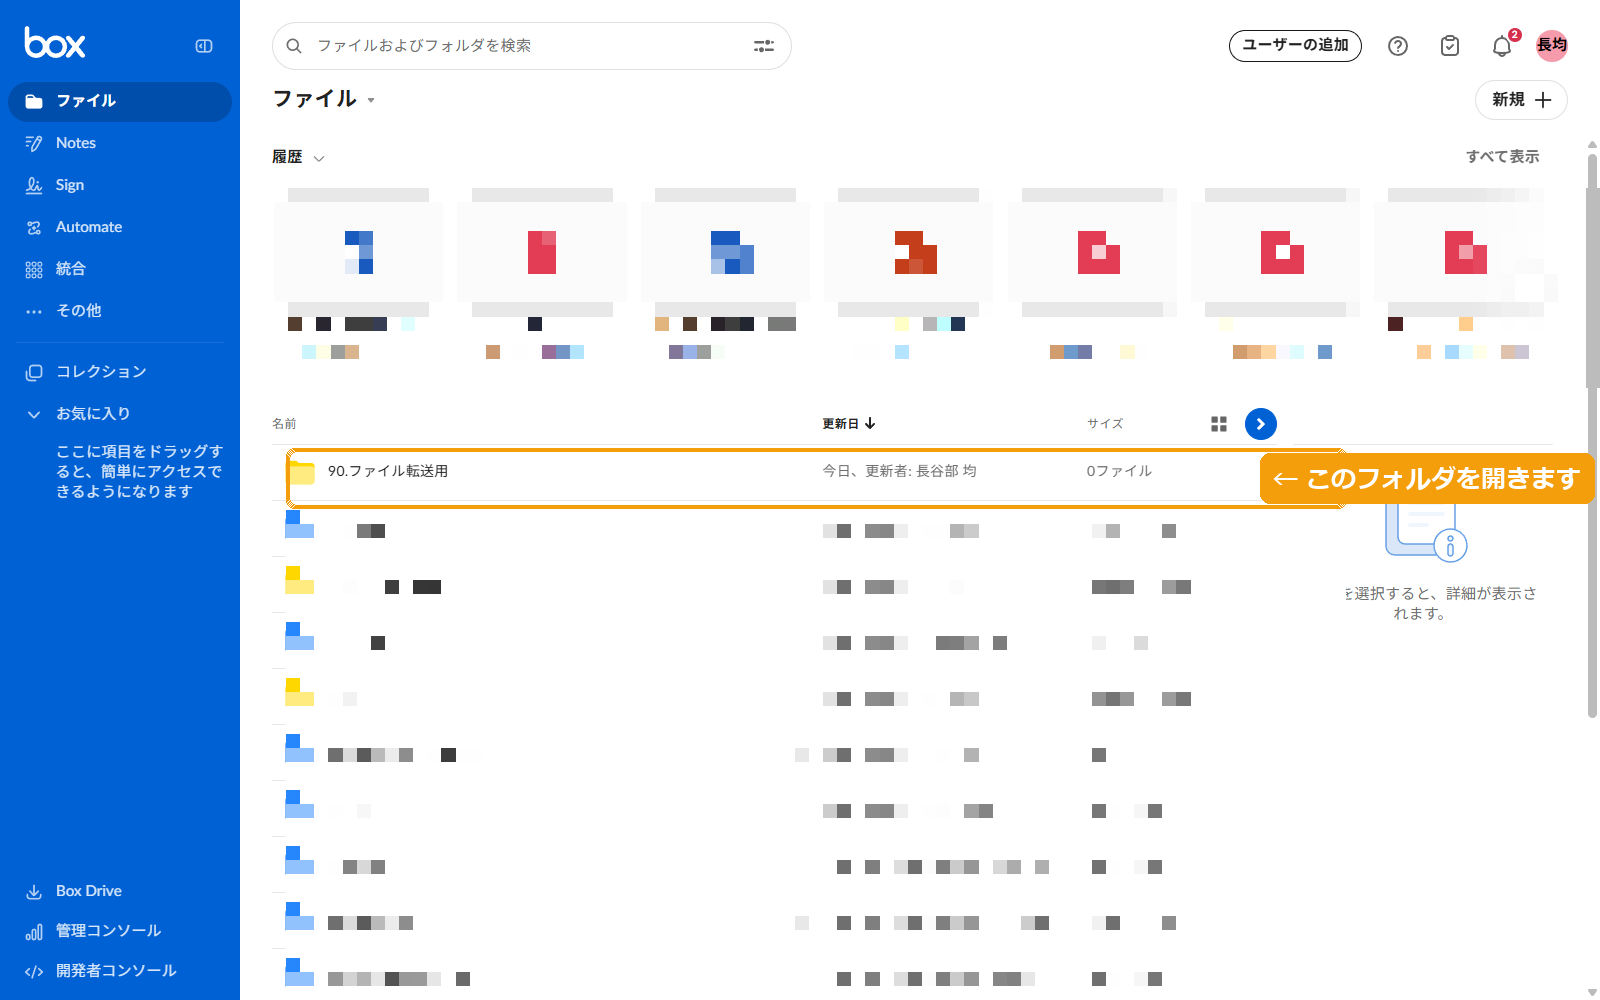
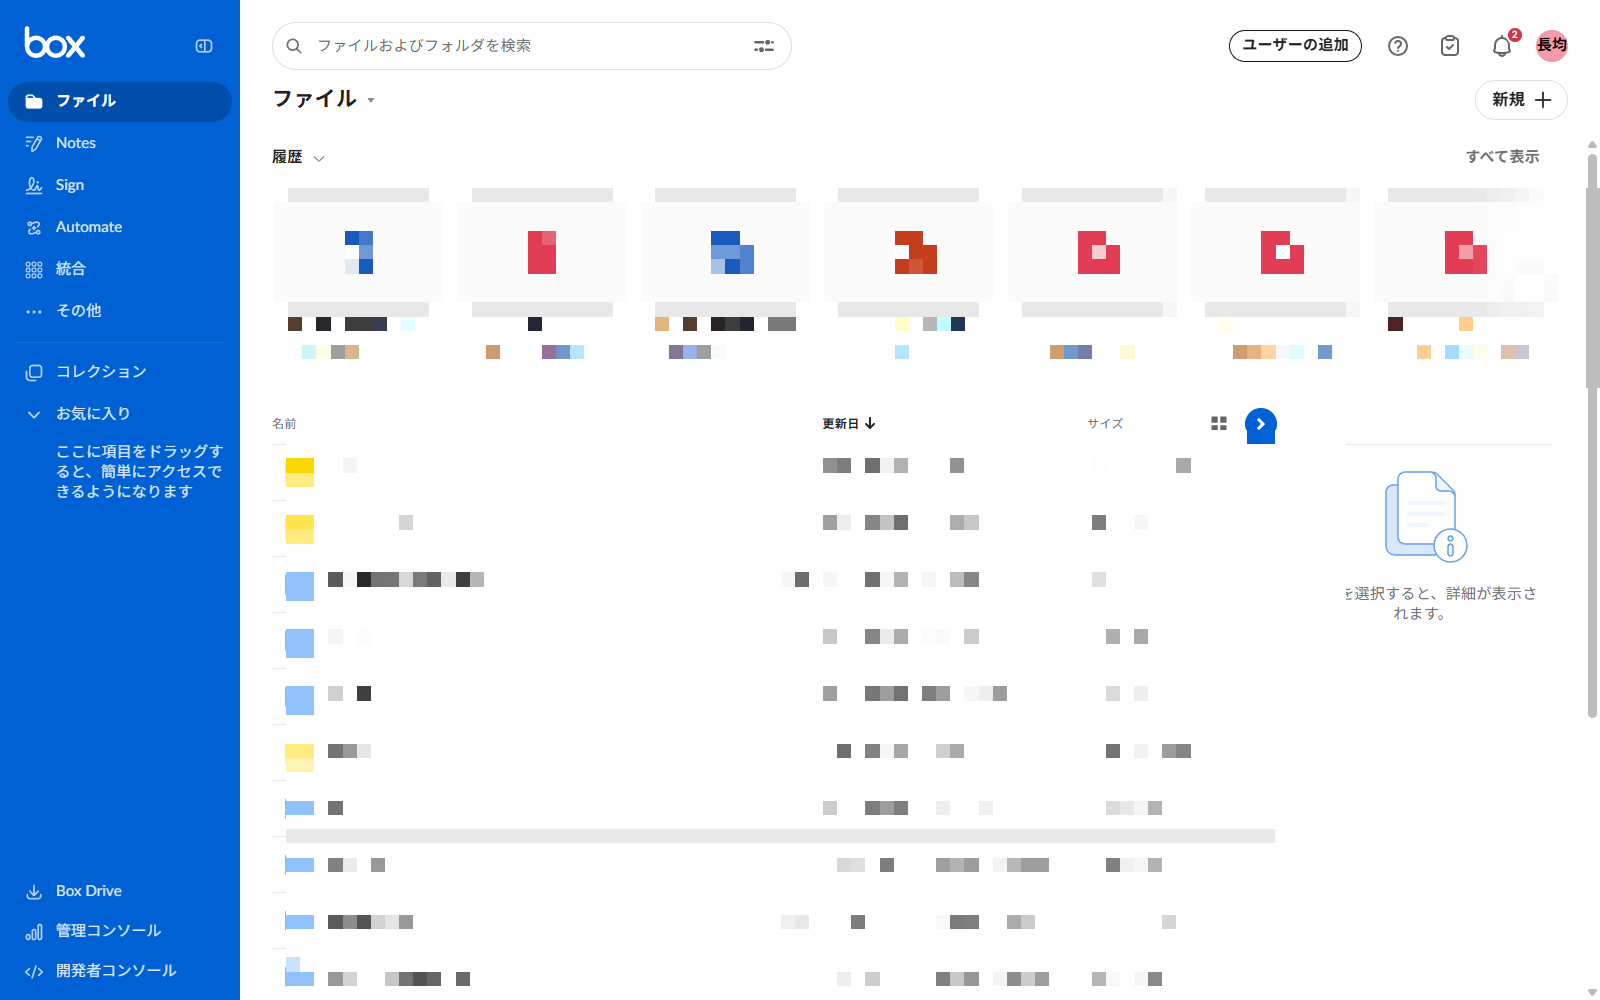
STEP3/4を実運用に合わせて更新（個人フォルダ直接表示・内部名モザイク）

diff --git a/index.html b/index.html
@@ -323,24 +323,25 @@ footer a { color: #00bfa5; text-decoration: none; }
   <span class="step-num">STEP 4</span>
   <h2>自分のフォルダを開く</h2>
   <p class="lead">
-    ベステラの Box には <strong>「90.ファイル転送用」</strong> というフォルダがあります。<br>
-    その中に、あなた専用のフォルダ（メールアドレスの @ より前の文字列）を用意してあります。
+    ログインすると、<strong>あなた専用のフォルダ</strong>が表示されます。<br>
+    フォルダ名は、あなたのメールアドレスの「＠」より前の文字です。
   </p>
 
-  <figure>
-    <img class="zoom" src="screenshots/10_parent_folder.png" alt="90.ファイル転送用フォルダの一覧">
-    <figcaption>「90.ファイル転送用」フォルダを開くと、自分の名前のサブフォルダが見えます</figcaption>
-  </figure>
+  <div class="hint">
+    <strong>フォルダ名の例:</strong><br>
+    <span class="kbd">y.nakaichi@besterra.co.jp</span> の方 → <span class="kbd">y.nakaichi</span> というフォルダ<br>
+    <span class="kbd">g.morita@besterra.co.jp</span> の方 → <span class="kbd">g.morita</span> というフォルダ
+  </div>
 
   <div class="good">
     <strong>あなただけのスペースです:</strong><br>
-    自分のフォルダは、長谷部とご本人だけが見られる設定になっています。
-    他の社員には見えません。安心してご利用ください。
+    このフォルダにアクセスできるのは、長谷部（管理者）とあなただけです。
+    ほかの社員からは見えません。安心してファイルを置いてください。
   </div>
 
   <figure>
-    <img class="zoom" src="screenshots/05_personal_folder.png" alt="自分のフォルダを開いたところ">
-    <figcaption>自分のフォルダの中身（最初は空です）</figcaption>
+    <img class="zoom" src="screenshots/11_my_folder_empty.png" alt="自分専用フォルダを開いたところ">
+    <figcaption>あなた専用のフォルダ（最初は空です）。画面右側に「所有者：長谷部」「編集者：あなた」とだけ表示されます</figcaption>
   </figure>
 </section>
 
